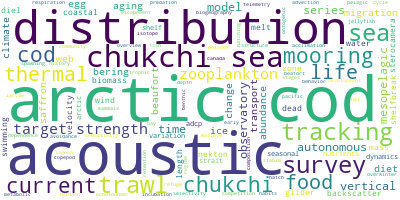
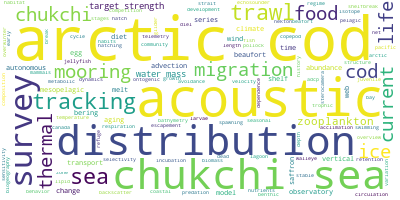
fishes of arctic NA articles

diff --git a/readingStats.py b/readingStats.py
@@ -8,7 +8,6 @@ import os
 from wordcloud import WordCloud
 
 files = glob('papers/**/**.md', recursive=True)
-
 date = []
 keywords = []
 for file in files:
@@ -35,12 +34,12 @@ a = readDates.groupby('Date').size()
 idx = pd.date_range(min(readDates.Date), max(readDates.Date))
 a =a.reindex(idx,fill_value=0)
 fig, ax = plt.subplots(figsize=(4.5,2.5))
-ax.plot(idx,a.values,'o-')
+ax.bar(idx,a.values, width=1)
 ax.xaxis.set_major_locator(mdates.MonthLocator())
 #set major ticks format
 ax.xaxis.set_major_formatter(mdates.DateFormatter('%b %d'))
 plt.gcf().subplots_adjust(bottom=0.22)
-#plt.savefig('readingTimeline.png')
+plt.savefig('readingTimeline.png')
 
 
 # Now lets populate the readme file with the paper list

diff --git a/README.md b/README.md
@@ -10,93 +10,101 @@ The goal is that these .md files will be able to be indexed by python based on t
 Notes (author, year, journal in file header) on readings.  Top of each note document has authors, year, journal, title, and keywords as subsections that can be used to later index through files if needed. Each folder contains a `.bib` file updated with each new `.md` note file for use in compiling references in LaTeX.  Upon reading each paper, a new note file is made, an addition is entered into the `.bib` file, and `readingStats.py` is executed to repopulate the below list and update the figures above.
 
 
-## acoustics
+## acoustics 
+ 
 
-
-### autonomous
-
+### autonomous 
+ 
 * [Benoit-Bird2018LOM - Equipping an underwater glider with a new echosounder to explore ocean ecosystems](https://github.com/leviner/ReadingList/tree/master/papers/acoustics/autonomous/Benoit-Bird2018LOM.md) 
-     * An EK80 (WBT-Mini) was installed on a slocum glider and deployed in Monterey Bay.  This paper documents the instrumentation, installation, and preliminary data from the first deployments.
-* [DeRobertis2018InPrep - Comparison of acoustic backscatter measurements from unmanned sailing vehicles and a noise-reduced research vessel](https://github.com/leviner/ReadingList/tree/master/papers/acoustics/autonomous/DeRobertis2018InPrep.md)
-     * Currently in preparation manuscript on the 2016 Saildrone deployment in the Bering Sea, investigating vessel avoidance during opportunistic and follow-the-leader ship-saildrone comparisons.
-* [Urmy2012JMS - Measuring the vertical distributional variability of pelagic fauna in Monterey Bay](https://github.com/leviner/ReadingList/tree/master/papers/acoustics/autonomous/Urmy2012JMS.md)
-     * Use of a moored 38kHz echosounder to look at the vertical distribution of backscatter and temporal variability over an 18-month deployment in Monterey Bay, CA, USA.
-* [UrmyHorne2016DSRI - Multi-scale responses of scattering layers to environmental variability in Monterey Bay, California](https://github.com/leviner/ReadingList/tree/master/papers/acoustics/autonomous/UrmyHorne2016DSRI.md)
-     * Use of a moored 38kHz echosounder to correlate backscatter with oceanographic variability over an 18-month deployment in Monterey Bay, CA, USA.  Same system used in [Urmy et al, 2012, *J. Mar. Sci.*](https://academic.oup.com/icesjms/article/69/2/184/701699).
+     * An EK80 (WBT-Mini) was installed on a slocum glider and deployed in Monterey Bay.  This paper documents the instrumentation, installation, and preliminary data from the first deployments. 
+* [DeRobertis2018InPrep - Comparison of acoustic backscatter measurements from unmanned sailing vehicles and a noise-reduced research vessel](https://github.com/leviner/ReadingList/tree/master/papers/acoustics/autonomous/DeRobertis2018InPrep.md) 
+     * Currently in preparation manuscript on the 2016 Saildrone deployment in the Bering Sea, investigating vessel avoidance during opportunistic and follow-the-leader ship-saildrone comparisons. 
+* [Urmy2012JMS - Measuring the vertical distributional variability of pelagic fauna in Monterey Bay](https://github.com/leviner/ReadingList/tree/master/papers/acoustics/autonomous/Urmy2012JMS.md) 
+     * Use of a moored 38kHz echosounder to look at the vertical distribution of backscatter and temporal variability over an 18-month deployment in Monterey Bay, CA, USA. 
+* [UrmyHorne2016DSRI - Multi-scale responses of scattering layers to environmental variability in Monterey Bay, California](https://github.com/leviner/ReadingList/tree/master/papers/acoustics/autonomous/UrmyHorne2016DSRI.md) 
+     * Use of a moored 38kHz echosounder to correlate backscatter with oceanographic variability over an 18-month deployment in Monterey Bay, CA, USA.  Same system used in [Urmy et al, 2012, *J. Mar. Sci.*](https://academic.oup.com/icesjms/article/69/2/184/701699). 
 
-### targets
+### targets 
+ 
+* [Arrhenius2000FR - Can stationary bottom split-beam hydroacoustics be used to measure fish swimming speed in situ?](https://github.com/leviner/ReadingList/tree/master/papers/acoustics/targets/Arrhenius2000FR.md) 
+     * Arrhenius et al. deployed an upward facing echosounder in two lakes to determine the ability of a split-beam echosounder to track fish, using a stereo-video system to validate the recorded swim speeds. 
+* [Brede1990IMR - Target tracking with a split-beam echo sounder](https://github.com/leviner/ReadingList/tree/master/papers/acoustics/targets/Brede1990IMR.md) 
+     * Demonstration of the ability to track targets and the ability to determine target strength and directivity in the beam. 
+* [Foote1987JASA - Fish target strengths for use in echo integrator surveys](https://github.com/leviner/ReadingList/tree/master/papers/acoustics/targets/Foote1987JASA.md) 
+     * An investigation into the backscattering cross section, or target strength, of fish, and the methods for in situ determination of TS and relating it to fish length.  Foote proposes a set of regression analyses from in situ measurements for generalized fish families based on available data. 
+* [TorgersenKaartvedt2001JMR - In situ swimming behaviour of individual mesopelagic fish studied by split-beam echo target tracking](https://github.com/leviner/ReadingList/tree/master/papers/acoustics/targets/TorgersenKaartvedt2001JMR.md) 
+     * One of the earlier papers presenting the use of target tracking of individual fish to evaluate individual behavior.  Used a 38 kHz EK500 for data collection. 
 
-* [Arrhenius2000FR - Can stationary bottom split-beam hydroacoustics be used to measure fish swimming speed in situ?](https://github.com/leviner/ReadingList/tree/master/papers/acoustics/targets/Arrhenius2000FR.md)
-     * Arrhenius et al. deployed an upward facing echosounder in two lakes to determine the ability of a split-beam echosounder to track fish, using a stereo-video system to validate the recorded swim speeds.
-* [Brede1990IMR - Target tracking with a split-beam echo sounder](https://github.com/leviner/ReadingList/tree/master/papers/acoustics/targets/Brede1990IMR.md)
-     * Demonstration of the ability to track targets and the ability to determine target strength and directivity in the beam.
-* [Foote1987JASA - Fish target strengths for use in echo integrator surveys](https://github.com/leviner/ReadingList/tree/master/papers/acoustics/targets/Foote1987JASA.md)
-     * An investigation into the backscattering cross section, or target strength, of fish, and the methods for in situ determination of TS and relating it to fish length.  Foote proposes a set of regression analyses from in situ measurements for generalized fish families based on available data.
-* [TorgersenKaartvedt2001JMR - In situ swimming behaviour of individual mesopelagic fish studied by split-beam echo target tracking](https://github.com/leviner/ReadingList/tree/master/papers/acoustics/targets/TorgersenKaartvedt2001JMR.md)
-     * One of the earlier papers presenting the use of target tracking of individual fish to evaluate individual behavior.  Used a 38 kHz EK500 for data collection.
+## pacificArctic 
+ 
 
-## pacificArctic
+### circulation 
+ 
+* [CorlettPickart2017PO - The Chukchi slope current](https://github.com/leviner/ReadingList/tree/master/papers/pacificArctic/circulation/CorlettPickart2017PO.md) 
+     * The authors describe the observation of a westward flow that advects a significant portion of Pacific-origin water, predominantly winter water, westward along the slope, as well as a weaker shelfbreak jet moving shallower water to the east. 
+* [Danielson2017DSRII - A comparison between late summer 2012 and 2013 water masses, macronutrients, and phytoplankton standing crops in the northern Bering and Chukchi Seas](https://github.com/leviner/ReadingList/tree/master/papers/pacificArctic/circulation/Danielson2017DSRII.md) 
+     * This paper presents an overview of the physical, chemical, and phytoplankton observations as they relate to winds, flow, and ice conditions as observed during the 2012 and 2013 Arctic EIS program.  First set of "physics to fish" observations covering the whole region. 
+* [Weingartner1997AFS - A review of the Physical Oceanography of the Northeastern Chukchi Sea](https://github.com/leviner/ReadingList/tree/master/papers/pacificArctic/circulation/Weingartner1997AFS.md) 
+     * A review of the physical oceanography published in 'Fish Ecology in Arctic North America', AFS symposium proceedings.  Outlines the physical oceanography during the ice-free season in the NE Chukchi. 
+* [Woodgate2005DSRII - A year in the physical oceanography of the Chukchi Sea: Moored measurements from autumn 1990-1991](https://github.com/leviner/ReadingList/tree/master/papers/pacificArctic/circulation/Woodgate2005DSRII.md) 
+     * Mooring data from a 1-year deployment of CTDs and ADCPs across US and Russian waters of the Chukchi Shelf, to present the seasonality and flow across the entire Chukchi Sea over 1 year. 
+* [Woodgate2015OCN - A Synthesis of Year-Round Interdisciplinary Mooring Measurements in the Bering Strait (1990-2014) and the RUSALCA Years (2004-2011)](https://github.com/leviner/ReadingList/tree/master/papers/pacificArctic/circulation/Woodgate2015OCN.md) 
+     * Overview of the ADCP and other moored sensors deployed from 1990-2014 in the Bering Strait.  Stresses the importance of the Bering Strait as the sole conduit of water into the Arctic from the Pacific.  Near-complete 24 year time series of flow through Bering Strait. 
 
+### fishes 
+ 
+* [Aronovich1975AC - Egg incubation and larval rearing of navaga (Eleginus navaga Pall.), polar cod (Boreogadus saida lepechin) and arctic flounder (Liopsetta glacialis Pall.) in the laboratory](https://github.com/leviner/ReadingList/tree/master/papers/pacificArctic/fishes/Aronovich1975AC.md) 
+     * Early description of Arctic cod egg and larval stages through incubation experiments, with developmental timing and growth rates 
+* [Benoit2008JGRO - Hydroacoustic detection of large winter aggregations of Arctic cod (Boreogadus saida) at depth in ice-covered Franklin Bay (Beaufort Sea)](https://github.com/leviner/ReadingList/tree/master/papers/pacificArctic/fishes/Benoit2008JGRO.md) 
+     * This study describes the presence and dispersal of a large, dense aggregation of Arctic cod observed overwinter in Franklin Bay, and aims to explore the physical and behavioral mechanisms responsible for their retention in deep water. 
+* [Benoit2014PB - Pre-winter distribution and habitat characteristics of polar cod (Boreogadus saida) in southeastern Beaufort Sea](https://github.com/leviner/ReadingList/tree/master/papers/pacificArctic/fishes/Benoit2014PB.md) 
+     * Investigate the distribution of age-0 and age-1+ aggregations of Arctic cod in the Canadian Beaufort in early Winter. 
+* [BouchardFortier2011PO - Circum-arctic comparison of the hatching season of polar cod Boreogadus saida: A test of the freshwater winter refuge hypothesis](https://github.com/leviner/ReadingList/tree/master/papers/pacificArctic/fishes/BouchardFortier2011PO.md) 
+     * This paper looks at the hatch date frequency distribution in six regions of differing freshwater input, and find evidence to support the winter refuge hypothesis that Arctic cod in lower saline environments have a greater pre-winter size due to faster development and earlier hatching. 
+* [Bradstreet1986DFO - Aspects of the Biology of Arctic Cod ( Boreogadus saida ) and its Importance in Arctic Marine Food Chains](https://github.com/leviner/ReadingList/tree/master/papers/pacificArctic/fishes/Bradstreet1986DFO.md) 
+     * Technical report on the importance of Arctic cod to the Canadian Arctic ecosystem, covers aspects of distribution, physiology, and ecological significance across North American waters.  Includes review of much of the work done prior to the 1980s, and a focus on ringed seal predation of A. cod. 
+* [Buckley2016EBF - Variation in the diet of Arctic Cod (Boreogadus saida) in the Pacific Arctic and Bering Sea](https://github.com/leviner/ReadingList/tree/master/papers/pacificArctic/fishes/Buckley2016EBF.md) 
+     * They look at the summer diet of arctic cod across multiple age classes from opportunistic samples throughout the Chukchi and Bering Sea.  Along a north-south gradient in the ECS, copepods dominate diets at higher latitudes, euphausiids at lower latitudes.  Larger fish have a more diverse diet of larger prey (decapods, fishes).  Arctic cod are highly opportunistic. 
+* [Copeman2017MEPS - Temperature impacts on lipid allocation among juvenile gadid species at the Pacific Arctic-Boreal interface: An experimental laboratory approach](https://github.com/leviner/ReadingList/tree/master/papers/pacificArctic/fishes/Copeman2017MEPS.md) 
+     * Measured temperature dependence of lipid accumulation in juvenile Arctic cod, Saffron cod, Pacific cod, and pollock. 
+* [Craig1982CJFAS - Ecological Studies of Arctic Cod (Boreogadus saida) in Beaufort Sea Coastal Waters, Alaska](https://github.com/leviner/ReadingList/tree/master/papers/pacificArctic/fishes/Craig1982CJFAS.md) 
+     * One of the earlier papers investigating the life history of Arctic cod from samples collected off the north slope of Alaska both nearshore and on the shelf break.  Arctic cod were found to be present in the coastal Beaufort year round. 
+* [Crawford2016PB - Occurrence of a gelatinous predator (Cyanea capillata) may affect the distribution of Boreogadus saida, a key Arctic prey fish species](https://github.com/leviner/ReadingList/tree/master/papers/pacificArctic/fishes/Crawford2016PB.md) 
+     * This paper presents evidence of jellyfish avoidance by Arctic cod in a shallow bay of the Canadian Arctic Archipelago.  The authors describe observations of partitioning which they attribute primarily to avoidance. 
+* [DeRobertis2015DSRIIa - Species and size selectivity of two midwater trawls used in an acoustic survey of the Alaska Arctic](https://github.com/leviner/ReadingList/tree/master/papers/pacificArctic/fishes/DeRobertis2015DSRIIa.md) 
+     * De Robertis et al. conducted a trawl selectivity experiment using recapture nets on a modified-Marinovich trawl to asses the species- and size-specific selectivity.  There is significant escapement, even for the most abundant species, and this analysis is required to properly calculate biomass/abundance estimates for juvenile Arctic cod. 
+* [DeRobertis2017DSRIIb - Abundance and distribution of Arctic cod (Boreogadus saida) and other pelagic fishes over the U.S. Continental Shelf of the Northern Bering and Chukchi Seas](https://github.com/leviner/ReadingList/tree/master/papers/pacificArctic/fishes/DeRobertis2017DSRIIb.md) 
+     * Two broad-scale baseline acoustic-trawl surveys were conducted in 2012 and 2013. 
+* [Drost2016JEB - Acclimation potential of Arctic cod (Boreogadus saida) from the rapidly warming Arctic Ocean](https://github.com/leviner/ReadingList/tree/master/papers/pacificArctic/fishes/Drost2016JEB.md) 
+     * Laboratory observations of thermal tolerance via measurements of respiration and heart rate to acute changes across various acclimation temperatures.  Shows ability to acclimate to temperatures through changes in aerobic ability and scope after 1-month of exposure. 
+* [Geoffroy2016PB - Vertical segregation of age-0 and age-1+ polar cod (Boreogadus saida) over the annual cycle in the Canadian Beaufort Sea](https://github.com/leviner/ReadingList/tree/master/papers/pacificArctic/fishes/Geoffroy2016PB.md) 
+     * The authors observed two distinct layers of arctic cod, an epipelagic layer of age-0 fish which forms in spring, begins DVM in summer, and settles to depth in late fall, and a mesopelagic layer of age-1+ fish.  They used TS to estimate length at depth to show a stratification and seasonal vaibility in the two layers, as well as estimate biomass. 
+* [Kessel2016PB - Distinct patterns of Arctic cod (Boreogadus saida) presence and absence in a shallow high Arctic embayment, revealed across open-water and ice-covered periods through acoustic telemetry](https://github.com/leviner/ReadingList/tree/master/papers/pacificArctic/fishes/Kessel2016PB.md) 
+     * The authors use acoustic telemetry (tagging) to investigate the spatial distribution of arctic cod in Resolute Bay in ice free and covered periods, and their presence in relation to environmental changes and predator presence. 
+* [Laurel2016PB - Temperature-dependent growth and behavior of juvenile Arctic cod (Boreogadus saida) and co-occurring North Pacific gadids](https://github.com/leviner/ReadingList/tree/master/papers/pacificArctic/fishes/Laurel2016PB.md) 
+     * Laboratory temperature experiments were conducted on gadidae to investigate the importance of temperature on fish growath and survival.  Arctic fishes can grow faster at cooler temperatures, but have a limited range.  Their ability to grow under future climate scenarios is presented. 
+* [Loggerwell2015PO - Fish communities across a spectrum of habitats in the western Beaufort Sea and Chukchi Sea](https://github.com/leviner/ReadingList/tree/master/papers/pacificArctic/fishes/Loggerwell2015PO.md) 
+     * Synthesized five years of surveys to look at differences in abundance (density) of animals from the lagoon to shelf slope in the Chukchi and Beaufort.  They also looked at icthyoplankton.  Based on Icthyoplankton, they state that the Beaufort Sea shelf is likely a spawning location for Arctic cod. 
+* [Marsh2017DSRII - Ontogenetic, spatial and temporal variation in trophic level and diet of Chukchi Sea fishes](https://github.com/leviner/ReadingList/tree/master/papers/pacificArctic/fishes/Marsh2017DSRII.md) 
+     * Examined the isoscapes and relation to water masses in the Chukchi Sea, looking for diet niches of pelagic fishes, particularly Arctic cod. 
+* [Mueter2016PB - The ecology of gadid fishes in the circumpolar Arctic with a special emphasis on the polar cod (Boreogadus saida)](https://github.com/leviner/ReadingList/tree/master/papers/pacificArctic/fishes/Mueter2016PB.md) 
+     * This is the introduction paper for the 2016 Polar Biology special issue that came out of the 2014 ESSAS annual meeting, focused on Arctic cod and their role in Arctic food webs. 
+* [Ponomarenko2000JI - Eggs, larvae, and juveniles of polar cod Boreogadus saida in the Barents, Kara, and White Seas](https://github.com/leviner/ReadingList/tree/master/papers/pacificArctic/fishes/Ponomarenko2000JI.md) 
+     * Observations of eggs, larvae, and juveniles from 14 years of sampling Polar cod.  The early life cycle is described, and differences in specimen and development are attributed environmental conditions. 
+* [Quast1974FB - Density distribution of juvenile Arctic cod, Boregogadus saida in the Eastern Chukchi Sea in the fall of 1970](https://github.com/leviner/ReadingList/tree/master/papers/pacificArctic/fishes/Quast1974FB.md) 
+     * This was the first fisheries survey of Arctic cod in the NE Chukchi (as far as I know), and showed that there were primarily young of the year A. cod, with a depth-dependent density.  Quast also speculates about the origin of the juvenile cod. 
+* [Vestfals2018 - Distribution of early life stages of Arctic cod and saffron cod in the Pacific Arctic](https://github.com/leviner/ReadingList/tree/master/papers/pacificArctic/fishes/Vestfals2018.md) 
+     * Vestfals et al aim to narrow down the potential spawning grounds for arctic and saffron cod based on the physical oceanography and summer distribution.  It contains a good review in the intro of the current literature on early life history. 
+* [Whitehouse2014PB - A trophic mass balance model of the eastern Chukchi Sea with comparisons to other high-latitude systems](https://github.com/leviner/ReadingList/tree/master/papers/pacificArctic/fishes/Whitehouse2014PB.md) 
+     * This study aimed to describe the trophic structure and function of the Chukchi Sea foodweb using an ecopath model, representing just one of many possible mass-balance solutions.  Fish estimates were taken from beam trawl samples of the Eastern Chukchi shelf. 
+* [Wyllie-Echeverria1997AFS - Water masses and transport of age-0 Arctic cod and age-0 Bering flounder into the northeastern Chukchi Sea](https://github.com/leviner/ReadingList/tree/master/papers/pacificArctic/fishes/Wyllie-Echeverria1997AFS.md) 
+     * Describe the abundance and distribution of larval bering flounder in late summer from 1989-1991 in relation to the sampled water masses.  Included collection of age-0 Arctic cod throughout the NE Chukchi to investigate water mass associations. 
 
-### circulation
-
-* [CorlettPickart2017PO - The Chukchi slope current](https://github.com/leviner/ReadingList/tree/master/papers/pacificArctic/circulation/CorlettPickart2017PO.md)
-     * The authors describe the observation of a westward flow that advects a significant portion of Pacific-origin water, predominantly winter water, westward along the slope, as well as a weaker shelfbreak jet moving shallower water to the east.
-* [Danielson2017DSRII - A comparison between late summer 2012 and 2013 water masses, macronutrients, and phytoplankton standing crops in the northern Bering and Chukchi Seas](https://github.com/leviner/ReadingList/tree/master/papers/pacificArctic/circulation/Danielson2017DSRII.md)
-     * This paper presents an overview of the physical, chemical, and phytoplankton observations as they relate to winds, flow, and ice conditions as observed during the 2012 and 2013 Arctic EIS program.  First set of "physics to fish" observations covering the whole region.
-* [Woodgate2005DSRII - A year in the physical oceanography of the Chukchi Sea: Moored measurements from autumn 1990-1991](https://github.com/leviner/ReadingList/tree/master/papers/pacificArctic/circulation/Woodgate2005DSRII.md)
-     * Mooring data from a 1-year deployment of CTDs and ADCPs across US and Russian waters of the Chukchi Shelf, to present the seasonality and flow across the entire Chukchi Sea over 1 year.
-* [Woodgate2015OCN - A Synthesis of Year-Round Interdisciplinary Mooring Measurements in the Bering Strait (1990-2014) and the RUSALCA Years (2004-2011)](https://github.com/leviner/ReadingList/tree/master/papers/pacificArctic/circulation/Woodgate2015OCN.md)
-     * Overview of the ADCP and other moored sensors deployed from 1990-2014 in the Bering Strait.  Stresses the importance of the Bering Strait as the sole conduit of water into the Arctic from the Pacific.  Near-complete 24 year time series of flow through Bering Strait.
-
-### fishes
-
-* [Aronovich1975AC - Egg incubation and larval rearing of navaga (Eleginus navaga Pall.), polar cod (Boreogadus saida lepechin) and arctic flounder (Liopsetta glacialis Pall.) in the laboratory](https://github.com/leviner/ReadingList/tree/master/papers/pacificArctic/fishes/Aronovich1975AC.md)
-     * Early description of Arctic cod egg and larval stages through incubation experiments, with developmental timing and growth rates
-* [Benoit2008JGRO - Hydroacoustic detection of large winter aggregations of Arctic cod (Boreogadus saida) at depth in ice-covered Franklin Bay (Beaufort Sea)](https://github.com/leviner/ReadingList/tree/master/papers/pacificArctic/fishes/Benoit2008JGRO.md)
-     * This study describes the presence and dispersal of a large, dense aggregation of Arctic cod observed overwinter in Franklin Bay, and aims to explore the physical and behavioral mechanisms responsible for their retention in deep water.
-* [BouchardFortier2011PO - Circum-arctic comparison of the hatching season of polar cod Boreogadus saida: A test of the freshwater winter refuge hypothesis](https://github.com/leviner/ReadingList/tree/master/papers/pacificArctic/fishes/BouchardFortier2011PO.md)
-     * This paper looks at the hatch date frequency distribution in six regions of differing freshwater input, and find evidence to support the winter refuge hypothesis that Arctic cod in lower saline environments have a greater pre-winter size due to faster development and earlier hatching.
-* [Bradstreet1986DFO - Aspects of the Biology of Arctic Cod ( Boreogadus saida ) and its Importance in Arctic Marine Food Chains](https://github.com/leviner/ReadingList/tree/master/papers/pacificArctic/fishes/Bradstreet1986DFO.md)
-     * Technical report on the importance of Arctic cod to the Canadian Arctic ecosystem, covers aspects of distribution, physiology, and ecological significance across North American waters.  Includes review of much of the work done prior to the 1980s, and a focus on ringed seal predation of A. cod.
-* [Buckley2016EBF - Variation in the diet of Arctic Cod (Boreogadus saida) in the Pacific Arctic and Bering Sea](https://github.com/leviner/ReadingList/tree/master/papers/pacificArctic/fishes/Buckley2016EBF.md)
-     * They look at the summer diet of arctic cod across multiple age classes from opportunistic samples throughout the Chukchi and Bering Sea.  Along a north-south gradient in the ECS, copepods dominate diets at higher latitudes, euphausiids at lower latitudes.  Larger fish have a more diverse diet of larger prey (decapods, fishes).  Arctic cod are highly opportunistic.
-* [Craig1982CJFAS - Ecological Studies of Arctic Cod (Boreogadus saida) in Beaufort Sea Coastal Waters, Alaska](https://github.com/leviner/ReadingList/tree/master/papers/pacificArctic/fishes/Craig1982CJFAS.md)
-     * One of the earlier papers investigating the life history of Arctic cod from samples collected off the north slope of Alaska both nearshore and on the shelf break.  Arctic cod were found to be present in the coastal Beaufort year round.
-* [Crawford2016PB - Occurrence of a gelatinous predator (Cyanea capillata) may affect the distribution of Boreogadus saida, a key Arctic prey fish species](https://github.com/leviner/ReadingList/tree/master/papers/pacificArctic/fishes/Crawford2016PB.md)
-     * This paper presents evidence of jellyfish avoidance by Arctic cod in a shallow bay of the Canadian Arctic Archipelago.  The authors describe observations of partitioning which they attribute primarily to avoidance.
-* [DeRobertis2015DSRIIa - Species and size selectivity of two midwater trawls used in an acoustic survey of the Alaska Arctic](https://github.com/leviner/ReadingList/tree/master/papers/pacificArctic/fishes/DeRobertis2015DSRIIa.md)
-     * De Robertis et al. conducted a trawl selectivity experiment using recapture nets on a modified-Marinovich trawl to asses the species- and size-specific selectivity.  There is significant escapement, even for the most abundant species, and this analysis is required to properly calculate biomass/abundance estimates for juvenile Arctic cod.
-* [DeRobertis2017DSRIIb - Abundance and distribution of Arctic cod (Boreogadus saida) and other pelagic fishes over the U.S. Continental Shelf of the Northern Bering and Chukchi Seas](https://github.com/leviner/ReadingList/tree/master/papers/pacificArctic/fishes/DeRobertis2017DSRIIb.md)
-     * Two broad-scale baseline acoustic-trawl surveys were conducted in 2012 and 2013.
-* [Drost2016JEB - Acclimation potential of Arctic cod (Boreogadus saida) from the rapidly warming Arctic Ocean](https://github.com/leviner/ReadingList/tree/master/papers/pacificArctic/fishes/Drost2016JEB.md)
-     * Laboratory observations of thermal tolerance via measurements of respiration and heart rate to acute changes across various acclimation temperatures.  Shows ability to acclimate to temperatures through changes in aerobic ability and scope after 1-month of exposure.
-* [Geoffroy2016PB - Vertical segregation of age-0 and age-1+ polar cod (Boreogadus saida) over the annual cycle in the Canadian Beaufort Sea](https://github.com/leviner/ReadingList/tree/master/papers/pacificArctic/fishes/Geoffroy2016PB.md)
-     * The authors observed two distinct layers of arctic cod, an epipelagic layer of age-0 fish which forms in spring, begins DVM in summer, and settles to depth in late fall, and a mesopelagic layer of age-1+ fish.  They used TS to estimate length at depth to show a stratification and seasonal vaibility in the two layers, as well as estimate biomass.
-* [Kessel2016PB - Distinct patterns of Arctic cod (Boreogadus saida) presence and absence in a shallow high Arctic embayment, revealed across open-water and ice-covered periods through acoustic telemetry](https://github.com/leviner/ReadingList/tree/master/papers/pacificArctic/fishes/Kessel2016PB.md)
-     * The authors use acoustic telemetry (tagging) to investigate the spatial distribution of arctic cod in Resolute Bay in ice free and covered periods, and their presence in relation to environmental changes and predator presence.
-* [Laurel2016PB - Temperature-dependent growth and behavior of juvenile Arctic cod (Boreogadus saida) and co-occurring North Pacific gadids](https://github.com/leviner/ReadingList/tree/master/papers/pacificArctic/fishes/Laurel2016PB.md)
-     * Laboratory temperature experiments were conducted on gadidae to investigate the importance of temperature on fish growath and survival.  Arctic fishes can grow faster at cooler temperatures, but have a limited range.  Their ability to grow under future climate scenarios is presented.
-* [Loggerwell2015PO - Fish communities across a spectrum of habitats in the western Beaufort Sea and Chukchi Sea](https://github.com/leviner/ReadingList/tree/master/papers/pacificArctic/fishes/Loggerwell2015PO.md)
-     * Synthesized five years of surveys to look at differences in abundance (density) of animals from the lagoon to shelf slope in the Chukchi and Beaufort.  They also looked at icthyoplankton.  Based on Icthyoplankton, they state that the Beaufort Sea shelf is likely a spawning location for Arctic cod.
-* [Marsh2017DSRII - Ontogenetic, spatial and temporal variation in trophic level and diet of Chukchi Sea fishes](https://github.com/leviner/ReadingList/tree/master/papers/pacificArctic/fishes/Marsh2017DSRII.md)
-     * Examined the isoscapes and relation to water masses in the Chukchi Sea, looking for diet niches of pelagic fishes, particularly Arctic cod.
-* [Mueter2016PB - The ecology of gadid fishes in the circumpolar Arctic with a special emphasis on the polar cod (Boreogadus saida)](https://github.com/leviner/ReadingList/tree/master/papers/pacificArctic/fishes/Mueter2016PB.md)
-     * This is the introduction paper for the 2016 Polar Biology special issue that came out of the 2014 ESSAS annual meeting, focused on Arctic cod and their role in Arctic food webs.
-* [Ponomarenko2000JI - Eggs, larvae, and juveniles of polar cod Boreogadus saida in the Barents, Kara, and White Seas](https://github.com/leviner/ReadingList/tree/master/papers/pacificArctic/fishes/Ponomarenko2000JI.md)
-     * Observations of eggs, larvae, and juveniles from 14 years of sampling Polar cod.  The early life cycle is described, and differences in specimen and development are attributed environmental conditions.
-* [Quast1974FB - Density distribution of juvenile Arctic cod, Boregogadus saida in the Eastern Chukchi Sea in the fall of 1970](https://github.com/leviner/ReadingList/tree/master/papers/pacificArctic/fishes/Quast1974FB.md)
-     * This was the first fisheries survey of Arctic cod in the NE Chukchi (as far as I know), and showed that there were primarily young of the year A. cod, with a depth-dependent density.  Quast also speculates about the origin of the juvenile cod.
-* [Vestfals2018 - Distribution of early life stages of Arctic cod and saffron cod in the Pacific Arctic](https://github.com/leviner/ReadingList/tree/master/papers/pacificArctic/fishes/Vestfals2018.md)
-     * Vestfals et al aim to narrow down the potential spawning grounds for arctic and saffron cod based on the physical oceanography and summer distribution.  It contains a good review in the intro of the current literature on early life history.
-* [Whitehouse2014PB - A trophic mass balance model of the eastern Chukchi Sea with comparisons to other high-latitude systems](https://github.com/leviner/ReadingList/tree/master/papers/pacificArctic/fishes/Whitehouse2014PB.md)
-     * This study aimed to describe the trophic structure and function of the Chukchi Sea foodweb using an ecopath model, representing just one of many possible mass-balance solutions.  Fish estimates were taken from beam trawl samples of the Eastern Chukchi shelf.
-
-### zooplankton
-
-* [Ashjian2017DSRII - Mesozooplankton abundance and distribution in association with hydrography on Hanna Shoal, NE Chukchi Sea, during August 2012 and 2013](https://github.com/leviner/ReadingList/tree/master/papers/pacificArctic/zooplankton/Ashjian2017DSRII.md)
-     * Description of the late-summer zooplankton community composition at Hannah Shoal during August of 2012 and 2013, focusing on copepods and euphausiids of interest for bowhead whales.
-* [Kitamura2017CSR - Seasonal dynamics of zooplankton in the southern Chukchi Sea revealed from acoustic backscattering strength](https://github.com/leviner/ReadingList/tree/master/papers/pacificArctic/zooplankton/Kitamura2017CSR.md)
-     * Use of AZFPs to describe the seasonality of zooplankton biomass, and identify the dominant scatterers in the southern Chukchi Sea, finding a seasonal peak in biomass in autumn and a minimum in early spring, not corresponnding with phytoplankton production.  Zooplpankton communities in the southern Chukchi are largely driven by advection from the Bering.
-* [PinchukEisner2017DSRII - Spatial heterogeneity in zooplankton summer distribution in the eastern Chukchi Sea in 2012–2013 as a result of large-scale interactions of water masses](https://github.com/leviner/ReadingList/tree/master/papers/pacificArctic/zooplankton/PinchukEisner2017DSRII.md)
-     * Describe the differences in zooplankton distribution (focussed on Calanus species of copepods) between 2012 and 2013 as part of the Arctic EIS study.  Zooplankton distribution is wind-driven and a balance between melt water and northward advection of warm Pacific water.
+### zooplankton 
+ 
+* [Ashjian2017DSRII - Mesozooplankton abundance and distribution in association with hydrography on Hanna Shoal, NE Chukchi Sea, during August 2012 and 2013](https://github.com/leviner/ReadingList/tree/master/papers/pacificArctic/zooplankton/Ashjian2017DSRII.md) 
+     * Description of the late-summer zooplankton community composition at Hannah Shoal during August of 2012 and 2013, focusing on copepods and euphausiids of interest for bowhead whales. 
+* [Kitamura2017CSR - Seasonal dynamics of zooplankton in the southern Chukchi Sea revealed from acoustic backscattering strength](https://github.com/leviner/ReadingList/tree/master/papers/pacificArctic/zooplankton/Kitamura2017CSR.md) 
+     * Use of AZFPs to describe the seasonality of zooplankton biomass, and identify the dominant scatterers in the southern Chukchi Sea, finding a seasonal peak in biomass in autumn and a minimum in early spring, not corresponnding with phytoplankton production.  Zooplpankton communities in the southern Chukchi are largely driven by advection from the Bering. 
+* [PinchukEisner2017DSRII - Spatial heterogeneity in zooplankton summer distribution in the eastern Chukchi Sea in 2012–2013 as a result of large-scale interactions of water masses](https://github.com/leviner/ReadingList/tree/master/papers/pacificArctic/zooplankton/PinchukEisner2017DSRII.md) 
+     * Describe the differences in zooplankton distribution (focussed on Calanus species of copepods) between 2012 and 2013 as part of the Arctic EIS study.  Zooplankton distribution is wind-driven and a balance between melt water and northward advection of warm Pacific water. 

diff --git a/papers/pacificArctic/circulation/Weingartner1997AFS.md b/papers/pacificArctic/circulation/Weingartner1997AFS.md
@@ -1,0 +1,67 @@
+01/02/19
+## Authors:
+ Weingartner, Thomas J.
+## Title:
+A review of the Physical Oceanography of the Northeastern Chukchi Sea
+## Keywords:
+water mass, wind, ice melt, circulation, bathymetry
+## Geographic Coverage
+Chukchi Sea, Bering Sea
+## Field Dates:
+N/A
+## Significance:
+A review of the physical oceanography published in 'Fish Ecology in Arctic North America', AFS symposium proceedings.  Outlines the physical oceanography during the ice-free season in the NE Chukchi.
+
+## Notes:
+Bathymetry
+- Relatively flat bottom, bounded by the shelf break to the north at ~200m-isobath.
+- Currents are steered by subtle features, separating the shelf into:
+  - Hope Sea Valley, approx. 55m deep, extending northwest from the southern Chukchi
+  - Herald Shoal, 25m, in the central basin
+  - Hannah Shoal, 25m,  in the northeast
+- Shelf break features that steer currents, facilitate cross shelf exchange by steering water off the shelf and channeling upwelled water onto the shelf:
+  - Herald Sea Valley, shallow canyon/valley between Wrangel Island and Herald Shoal, terminates at ~150m depth on the shelf break
+  - Barrow Canyon in the northeast, terminates at ~3000m depth.
+
+Winds
+- Strongly influenced by polar high pressure cell, and on an annual mean drives easterlies over the northern Chukchi and northeasterly winds over the southern Chukchi and Bering Seas.  
+- North of Pt. Lay, winds vary minimally
+- South of Pt. Lay, winds switch seasonally, from the south in summer and from the north in winter.
+- Southerly winds accelerate coastal currents northward, northerly winds accelerate them southward leading to horizontal gradients
+
+Circulation
+- Northward flow, mean annual transport through Bering Strait of ~.8 Sv, driven by drop in sea level between Aleutian Basin and Arctic (pressure head).
+- 85% of inflow from deep Bering Sea and Gulf of Anadyr, remainder from the Bering Shelf (EBS)
+- Fluctuations are driven by wind stress, with flow at minimum in winter and maximum in summer when northward winds occur more frequently
+- Bifurcates when entering Chukchi
+  - Alaskan Coastal Current (ACC) along the northeastern coastal within 20-50km of the coast, flowing out through Barrow
+  - Remainder goes west as a diffuse northwestern current through Hope and Herald Sea valleys
+- In the northern Chukchi (shelf break), there is a deep eastward current (Beaufort Undercurrent), and a shallow westward current.  Above 250m, the water is of Pacific origin.  Below 250m, the water is Atlantic.
+
+Water Masses (Nomenclature from Coachman et al., 1975)
+- Northward flow from Bering Strait is Alaskan Coastal Water (ACW) and Bering Shelf Water (BSW).
+  - ACW: temperatures range from 2-13C with salinites <32.2 due to influx of freshwater from Yukon river and other discharge.  This water mass stays near the surface because of low density, and warms from solar radiation
+  - BSW: 0-3C, 32.5-33 PSU, a blend of bering shelf water formed in winter and water flowing onto the shelf from deep Bering Sea and the Gulf of Anadyr, with high concentrations of dissolved nutrients and chlorophyll, also a major source of oceanic zooplankton.
+- Four additional water masses:
+  - Sea ice melt: low salinity and temperature
+  - Resident chukchi water: advected waters from the upper Arctic ocean with low temperature and high salinity reflecting ice brine
+  - Atlantic water: very high salinity (34.5) and moderate (0-1C) temperatures, found at depth along the slope of the Chukchi, upwells through the canyons (usually Barrow)
+  - Near freezing waters, commonly winter Chukchi waters
+- The ACC flow is augmented by horizontal pressure caused by fronts of water masses across the shelf.  Speed is dependent on the strength of the front and the slope of the seafloor.
+- There are large shifts in ACC mean flow driven by north/south wind, though the velocity field across the northeast chukchi can be consistent for >350km.
+- Response of the flow to wind can be <1 day, and wind history must be taken into consideration when interpreting long cruises.
+
+Upwelling
+- Offshore waters episodically upwell via Barrow Cnayon and along the Beaufort shelf break, bringing high salinity and nutrient waters into the northern Chukchi.
+- Most common in fall and early winter when winds are most variable
+- During multiday upwelling, episodes at .25m/s can bring water nearshore.  
+- Upwelling in the western shelf break of the Chukchi may be greater due to the decrease in slope compared to the Beaufort, and the gradient in slope may be reflected in the gradient in biological activity.
+
+Sea ice
+- Generally Ice covered from November to June
+- In comparison to the Beaufort and Siberian Seas, ice retreat begins earlier and advance occurs later due to the warm Pacific water advected onto the shelf.
+- Ice melt back is not uniform, and normally is in 3 embayments; Herald Sea Valley and Barrow Canyon, and a third between Herald and Hannah Shoals.  
+- Upwelling occurs on the windward side of an ice meander, impacting productivity associated with the ice edge.
+- Ice edge zones have large spatial gradients in water, air, current, and wind conditions, typically causing upper and lower fronts, where the upper meltwater and lower resident chukchi water meet the northward-flowing ACW and BSW
+
+High interannual variability in transport and sea ice extent, likely due to anomalies in the regional wind field.  Ice can also be impacted by coastal river discharge variability.

diff --git a/papers/pacificArctic/fishes/Wyllie-Echeverria1997AFS.md b/papers/pacificArctic/fishes/Wyllie-Echeverria1997AFS.md
@@ -1,0 +1,35 @@
+01/02/19
+## Authors:
+Wyllie-Echeverria, Tina and Barber, Willard E. and Wyllie-Echeverria, Sandy
+## Title:
+Water masses and transport of age-0 Arctic cod and age-0 Bering flounder into the northeastern Chukchi Sea
+## Keywords:
+arctic cod, advection, water mass
+## Geographic Coverage
+Chukchi Sea
+## Field Dates:
+09/03/1989 - 07/31/1991
+## Significance:
+Describe the abundance and distribution of larval bering flounder in late summer from 1989-1991 in relation to the sampled water masses.  Included collection of age-0 Arctic cod throughout the NE Chukchi to investigate water mass associations.
+
+## Notes:
+Hypothesis that populations of Bering flounder might be imported and maintained by advection of larvae from the northern Bering into the Chukchi Sea.  
+
+To investigate, they sample planktonic age-0 fish (specifically bering flounder) in relation to the physical oceanography and the distribution of age-0 Arctic cod.
+
+Distribution of fishes in the N. Atlantic have been associated with distributions in water masses, and Saffron cod are known to vary with different current regimes.
+
+Currents in the northeastern Chukchi Sea are dominated by flow from the Bering Sea, and the pressure head + wind results in the distribution of 3 water masses: ACW, BSW, and RCW.
+
+Sampling was done with a bongo net, IKMT, and beam trawl (depending on year).  CTD casts were done following each net collection.
+
+Results:
+- 1989: Arctic cod were present at all stations, regardless of water mass, though most common in ACW/RCW (overlaying)
+- 1990: Arctic cod were caught at all stations north of 71N
+- 1991: Arctic cod were caught throughout the area, with the highest number in the Chukchi Water
+
+Age-0 Arctic cod were foudn throughout the NE Chukchi, with the highest concentrations at stations where resident Chukchi water was present.  Climatic condition in 1989 and 1990 were similar, with northward winds resulting in an eastward displacement of the ACW. In 1991, winds were mostly to the south, pushing RCW south.
+
+Time of hatching of Arctic cod may extend to July based on the size of fish (5-8 mm) retained in net samples in August.
+
+There is clear association of bering flounder with ACW, however age-0 Arctic cod were more widespread.
